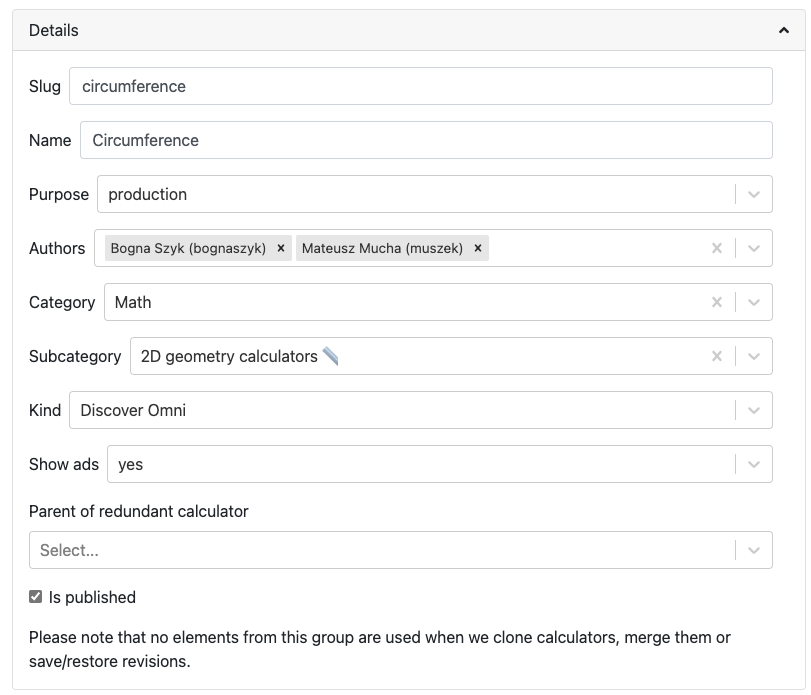
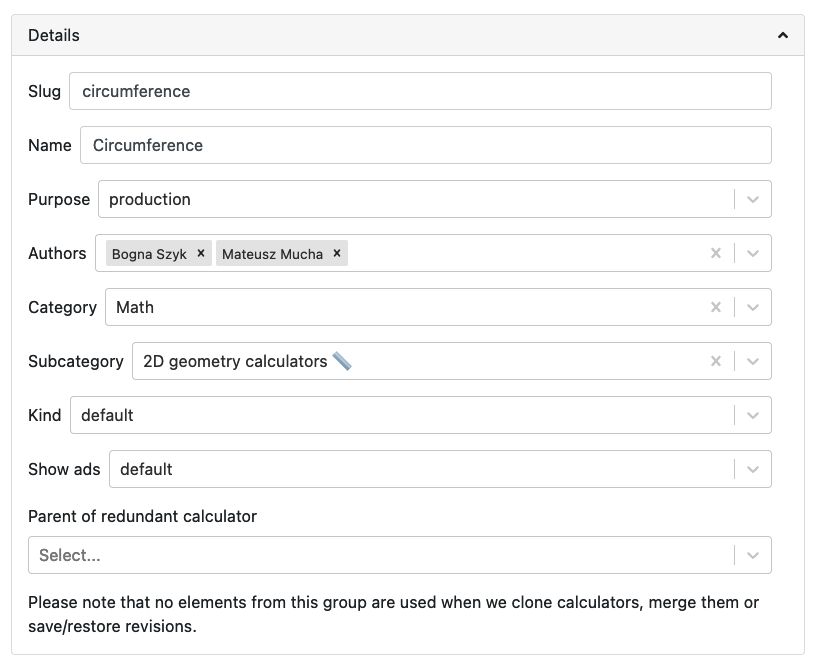
Add docs for revisions feature
Also update other sections with the new proceedure to publish
calculators.

diff --git a/docs/generalTips/calculatorStructure/revisions.rst b/docs/generalTips/calculatorStructure/revisions.rst
@@ -1,0 +1,216 @@
+.. _calcRevisions:
+
+Revisions
+=========
+
+The revisions section of the calculator editor page helps you **manage the various revisions** of a calculator that are created as it is developed. You can do things like: go back to old revisions, experiment with a new feature without affecting the published version, see who made a certain change, and see the differences between revisions.
+
+.. tip::
+  Here is a full video demonstration of the revisions feature, as a supplement to this section of the Handbook.
+
+  .. raw:: html
+
+    <center><iframe width="560" height="315" src="https://www.youtube.com/embed/9uAwERwwHNg" title="YouTube video player" frameborder="0" allow="accelerometer; autoplay; clipboard-write; encrypted-media; gyroscope; picture-in-picture" allowfullscreen></iframe></center>
+
+Each time you click the save button, **a new revision is born** and given a sequential number, as shown in the example below.
+
+.. _revisionsExample:
+.. figure:: revisions-example.png
+  :width: 100%
+  :alt: example of revisions of a draft calculator
+  :align: center
+
+  Example of revisions of draft a calculator.
+
+To see the list of revisions, you can either **click on the gear icon** in the top-right of the screen and click **Show revisions**, or click on the current revision status in the **bottom left-hand corner**.
+
+.. _revisionsMenu:
+.. figure:: revisions-menu.png
+  :width: 50%
+  :alt: open gear menu
+  :align: center
+
+  Use the gear icon menu to show the revision list.
+
+.. _revisionsStatus:
+.. figure:: revisions-status.png
+  :width: 50%
+  :alt: current revision status indicator
+  :align: center
+
+  Click on the revision status indicator to display the list of revisions.
+
+For each revision, you can see the **serial number**, the **date** when it was saved, **who** saved it, it's optional **name** (or tag) and some **icons** for functions such as viewing a preview of the webpage and viewing differences between revisions.
+
+To switch between revisions, simply **click on the desired revision serial number**.
+
+To see the **web page based on a particular revision**, click on the globe icon in the **Thingies** column.
+
+.. _revisionsWebpage:
+.. figure:: revisions-webpage.png
+  :width: 50%
+  :alt: clicking on the global icon will display the web page for the calculator at that revision
+  :align: center
+
+  Clicking on the global icon will display the web page for the calculator at that revision.
+
+Note that the accompanying text article used for the web page preview will be the latest or live text revision.
+
+.. tip::
+  You might find it convenient to open the preview web page in a **new tab or window**, so you don't navigate away from the edit calculator page. You can do that by **right-clicking** and selecting open in new tab or window.
+  
+  A shortcut to opening links in a new tab is to **hold down the control key** (command key on Macs) and clicking the link. 
+  
+  Alternatively, if you use a mouse with a **scroll wheel**, pressing the scroll wheel down while hovering over the link should open it in a new tab.
+
+Revision status indicator
+-------------------------
+
+In the bottom-left corner of the calculator editor page, you'll find the revision status indicator. This tells you which revision is currently loaded, whether it is the live version or not, and whether it is the most recent version of the calculator. Here are some examples that illustrate these different states.
+
+.. _revisionsStatusEg1:
+.. figure:: revisions-status-eg1.png
+  :width: 50%
+  :alt: current revision status indicator example showing revision 1, not live, but most recent
+  :align: center
+
+  This revision status indicator tells us that we are looking at revision 1, that it's not live, and it's the most recent revision.
+
+.. _revisionsStatusEg2:
+.. figure:: revisions-status-eg2.png
+  :width: 55%
+  :alt: current revision status indicator example showing revision 5, not live, not the most recent
+  :align: center
+
+  This one tells us that we are looking at revision 5, that it's not live, and it's not the most recent revision.
+  
+.. _revisionsStatusEg3:
+.. figure:: revisions-status-eg3.png
+  :width: 50%
+  :alt: current revision status indicator example showing revision 3, it's the live revision, not the most recent
+  :align: center
+
+  This final one tells us that we are looking at revision 3, that it's the live revision, but not the most recent revision.
+    
+
+Comparing revisions
+-------------------
+
+To more easily see what things have changed between revisions, you can perform a difference check between any two revisions. You do this by clicking on the **dd** icon in the **Thingies** column to select the first one (**dd** icon will turn blue and sticky), then do the same to select another revision to compare it with.
+
+.. _revisionsDdIcon:
+.. figure:: revisions-dd.png
+  :width: 30%
+  :alt: click on the dd icon to select the first revision to compare, then again on the dd icon of another revision
+  :align: center
+
+  Click on the **dd** icon of the first revision you wish to compare, then click the **dd** icon on the second revision.
+
+Once you click on the second **dd** icon, a page is displayed in a new tab showing you all the differences between the two calculators.
+
+.. _revisionsDiffEg:
+.. figure:: revisions-diff-eg.png
+  :width: 100%
+  :alt: example of displaying the differences between two calculator revisions
+  :align: center
+
+  Example of displaying the differences between two calculator revisions. Here the unit switcher and default units have been changed.
+
+You can go back to one of the revisions by clicking the links at the top of the page, or close it if you are done looking at the differences.
+
+Branched revisions
+------------------
+
+As you build your calculator and press the save button, you will naturally use the latest revision as the basis for the next revision.
+
+But what if some feature you've tried to add is not working and you'd like another try at it using another idea (e.g., use customJS instead of engine equations)?
+
+You just need to load the revision you had **before** you stated adding the new feature, try again and save. The new revision will now have a **P** icon in the **Thingies** column (as shown below), which tells you that this revision was based on another revision (its parent is not the previous numbered revision).
+
+.. _revisionsParent:
+.. figure:: revisions-parent.png
+  :width: 100%
+  :alt: example of a revision which has a different parent
+  :align: center
+
+  Example of a revision which has a different parent.
+
+.. note::
+  Saving further revisions based on c-7 will not have the **P** icon.
+
+Cloned revisions
+----------------
+
+If you decide to :ref:`clone <upperPanelClone>` the contents of another calculator to your calculator, a new revision is created with a special yellow **P** icon, indicating that the parent of this revision is another calculator and revision.
+
+Hovering your mouse over this icon with tell you the name and id of the other calculator, as well as the revision that was cloned. You may click on the yellow **P** icon to be taken to that other calculator.
+
+.. _revisionsCloned:
+.. figure:: revisions-cloned.png
+  :width: 100%
+  :alt: example of a revision which has been cloned from another calculator
+  :align: center
+
+  Example of a revision which has been cloned from another calculator.
+
+.. _revisionsLiveRevision:  
+
+Live revision
+-------------
+
+The concept of the live revision depends on whether the calculator is published or not. For **unpublished** calculators, the live revision will be the revision used when you navigate to the preview web page of the calculator at ``all/calculator-slug``, when no revision number is specified.
+
+.. note::
+  The URL for a particular revision has the format ``all/calculator-slug?calculatorSerial=n`` for unpublished calculators, when ``n`` is the revision number. For published calculators, this changes slightly to ``category/calculator-slug?calculatorSerial=n``.
+
+Once a calculator is **published**, the live revision will be the one that loads when the user navigates to ``category/calculator-slug`` (i.e., from a link on the website).
+
+To make a revision live, you **click on the star icon** that appears next to the revision number when you hover over it. However, **only named revisions** are allowed to made live.
+
+.. warning::
+  You need to **name a revision** to be able to make it **live** and a calculator needs a live revision in order to be **published**.
+
+.. _revisionsNameARevision:
+
+To **name a revision**, click in the name field of the revision and give it a meaningful name, such as "To review", if you are marking it for your reviewer to assess.
+
+.. _revisionsName:
+.. figure:: revisions-name.png
+  :width: 100%
+  :alt: example of naming a revision
+  :align: center
+
+  Example of naming a revision of draft a calculator.
+
+
+.. note::
+  While the calculator author should name revisions, generally, **only reviewers and proofreads** should make a revision live and publish calculators.
+
+Now, **clicking on a unfilled blue star** will make the revision live, though note that it is still not published on the public website. The live revision is denoted with a filled blue star and the action is logged, as shown below.
+
+.. _revisionsLive:
+.. figure:: revisions-live.png
+  :width: 100%
+  :alt: example of making a revision live
+  :align: center
+
+  Example of making a revision live.
+
+.. _revisionsPublishingACalculator:
+
+Publishing a calculator
+-----------------------
+
+With the **live revision loaded**, click on the gear icon in the top-right corner on the page and select **Publish**.
+
+To prevent accidental publishing, you need to provide the **calculator's slug**.
+
+If all went well, now the calculator can be reached by its final URL path (using its category slug) and appear in the site index and search.
+
+At a later date, if further changes need to be made, the live revision can be **changed to a later revision**, which will then become the new published calculator.
+
+.. note::
+  This is different to the previous behavior, when simply saving a published calculator would immediately be reflected on the website.
+
+.. warning::
+  It is **not currently possible to unpublish a calculator** using the AdminBB interface. If a calculator is mistakenly published, you would have to ask the developers to take it down, which is not convenient, both for you or them. Note that you cannot delete a published calculator either. So think **very carefully** before publishing.

diff --git a/docs/generalTips/trello/reviewing/checklist.rst b/docs/generalTips/trello/reviewing/checklist.rst
@@ -11,11 +11,13 @@ Most of the tasks are self-explanatory, so here is the list of less obvious ones
 2. **Additional text to proofread?** — If you display some text message or the combination of sentences **with customJS**, check this option. You can also mention about all possible calculator outcomes to make the proofreader's life easier.
 3. **VPN check** — if you're using different default metric and imperial units, check this task. One of possible ways to do so:
    
- 1. Open Opera browser.
- 2. Go to **incognito mode** (``Ctrl`` + ``Shift`` + ``n``).
- 3. Click the *VPN* button on the search bar.
- 4. Connect with the VPN.
- 5. If you're using **metric units by default - set US as the virtual location**, if you're using **imperial units by default - set Europe**.
- 6. Open calculator's web page.
- 7. Check if everything works as it should.  
-4. **FAQ** — add **at least 4** Question-Answer pairs (ideally 5-7) according to the :ref:`FAQ guide <faqGuide>`.
+  1. Open Opera browser.
+  2. Go to **incognito mode** (``Ctrl`` + ``Shift`` + ``n``).
+  3. Click the *VPN* button on the search bar.
+  4. Connect with the VPN.
+  5. If you're using **metric units by default - set US as the virtual location**, if you're using **imperial units by default - set Europe**.
+  6. Open calculator's web page.
+  7.  Check if everything works as it should.  
+   
+4.  **FAQ** — add **at least 4** Question-Answer pairs (ideally 5-7) according to the :ref:`FAQ guide <faqGuide>`.
+5.  **Name the revision that should be checked "to review"** — In the revisions section of the edit calculator page, :ref:`name the revision <revisionsNameARevision>` you wish your reviewer to assess, "To review" (or include those words).

diff --git a/docs/generalTips/calculatorStructure/upperPanel.rst b/docs/generalTips/calculatorStructure/upperPanel.rst
@@ -34,12 +34,14 @@ Calculator tools ⚙
 
 The little gear icon opens a menu with the following items:
 
+* **Show revisions** — Shows the list of revisions of the calculator. Learn all about the revisions feature here: :ref:`Revisions <calcRevisions>`.
+* **Publish** — Publishes a calculator to the public website. Full details on the publishing procedure can be found here: :ref:`Live revision and Publishing a calculator <revisionsLiveRevision>`.
 * **Clone** — Makes a temporary copy of the current calculator. Useful for testing a change out before saving it to a live calculator.
 * **Merge to other calculator** — Allows you to merge this calculator with another one. Useful for copying some changes from a cloned calculator to a published calculator. *If you can't see this option, get your reviewer/proofreader to do the merge.*
-* **Show revisions (soon)** — Will allow you to see all the different revisions of a calculator. A revision will be stored each time the calculator is saved.
-* **Show redundant children (soon)** — Will show the redundant, sub-calculators that are associated with this calculator.
 
-Let's explore each of these tools in detail next.
+Let's explore the remaining items in detail next.
+
+.. _upperPanelClone:
 
 Clone
 ^^^^^

diff --git a/docs/generalTips/calculatorStructure/details.rst b/docs/generalTips/calculatorStructure/details.rst
@@ -115,15 +115,3 @@ For search engine optimization reasons, we might want to have sub-calculators th
 This setting is used to organize a redundant calculator so we know which main calculator it belongs to. Specifying a parent will **make the current calculator redundant** and hide it from its category index page. You should only set a parent if you have been told to do so.
 
 You can search for the parent calculator either by starting to **type its name**, or by entering its **ID number**.
-
-Is published
-------------
-
-This checkbox indicates whether the calculator is currently published.
-
-.. warning::
-  Checking this box will **publish** the calculator. This should only be done once the calculator has been reviewed and proofread. Your proofreader will be the person who usually checks this box.
-  
-  Unchecking this box will **unpublish** the calculator.
-
-  In general, it's best to **leave this setting alone**, unless you are told to change it.

diff --git a/docs/generalTips/trello/reviewing/intro.rst b/docs/generalTips/trello/reviewing/intro.rst
@@ -9,7 +9,8 @@ How to send a calculator to review:
 2. **Add the reviewer** (usually Ania, Dominik, Steve or Wojtek) to the card with your calculator.
 3. Click the "First review" button. 
 4. If you have any **additional remarks**, leave them on the calculator card as **a comment**.
-5. If you've **improved a calculator that had a yellow label**, set the label color to red once again (don't use the button "First review"!).
+5. In the revisions section of the edit calculator page, :ref:`name the revision <revisionsNameARevision>` you wish your reviewer to assess, "To review" (or include those words).
+6. If you've **improved a calculator that had a yellow label**, set the label color to red once again (don't use the button "First review"!).
 
 .. toctree::
     :maxdepth: 2

diff --git a/docs/generalTips/trello/proofreading.rst b/docs/generalTips/trello/proofreading.rst
@@ -18,7 +18,7 @@ Once the calculator has been honed to perfection, it's time to publish it and up
 Publish the calculator
 ----------------------
 
-Go to the :ref:`Details section <details>` of the edit calculator page and tick the **Is published** checkbox. Hit the **Save** button and now the calculator is **published**!
+Make the correct revision of the calculator the :ref:`live revision <revisionsLiveRevision>`, then use the **Publish** item in the gear icon drop-down menu to publish the calculator. Further details on the publishing process can be found here: :ref:`revisionsPublishingACalculator`.
 
 Update Trello card
 ------------------

diff --git a/docs/generalTips/trello/reviewing/improvement.rst b/docs/generalTips/trello/reviewing/improvement.rst
@@ -8,3 +8,4 @@ If there is anything to change or improve in the calculator, the reviewer will *
 If you've improved a calculator that had a yellow label, **set the label color to red once again** (don't use the button *First review*!).
 
 This ping pong game continues until the calculator is polished and ready to proofread and publish.
+

diff --git a/docs/generalTips/calculatorStructure/intro.rst b/docs/generalTips/calculatorStructure/intro.rst
@@ -21,3 +21,4 @@ Each section of the edit calculator page is explored below:
     valueSelects
     tests
     conditions
+    revisions
